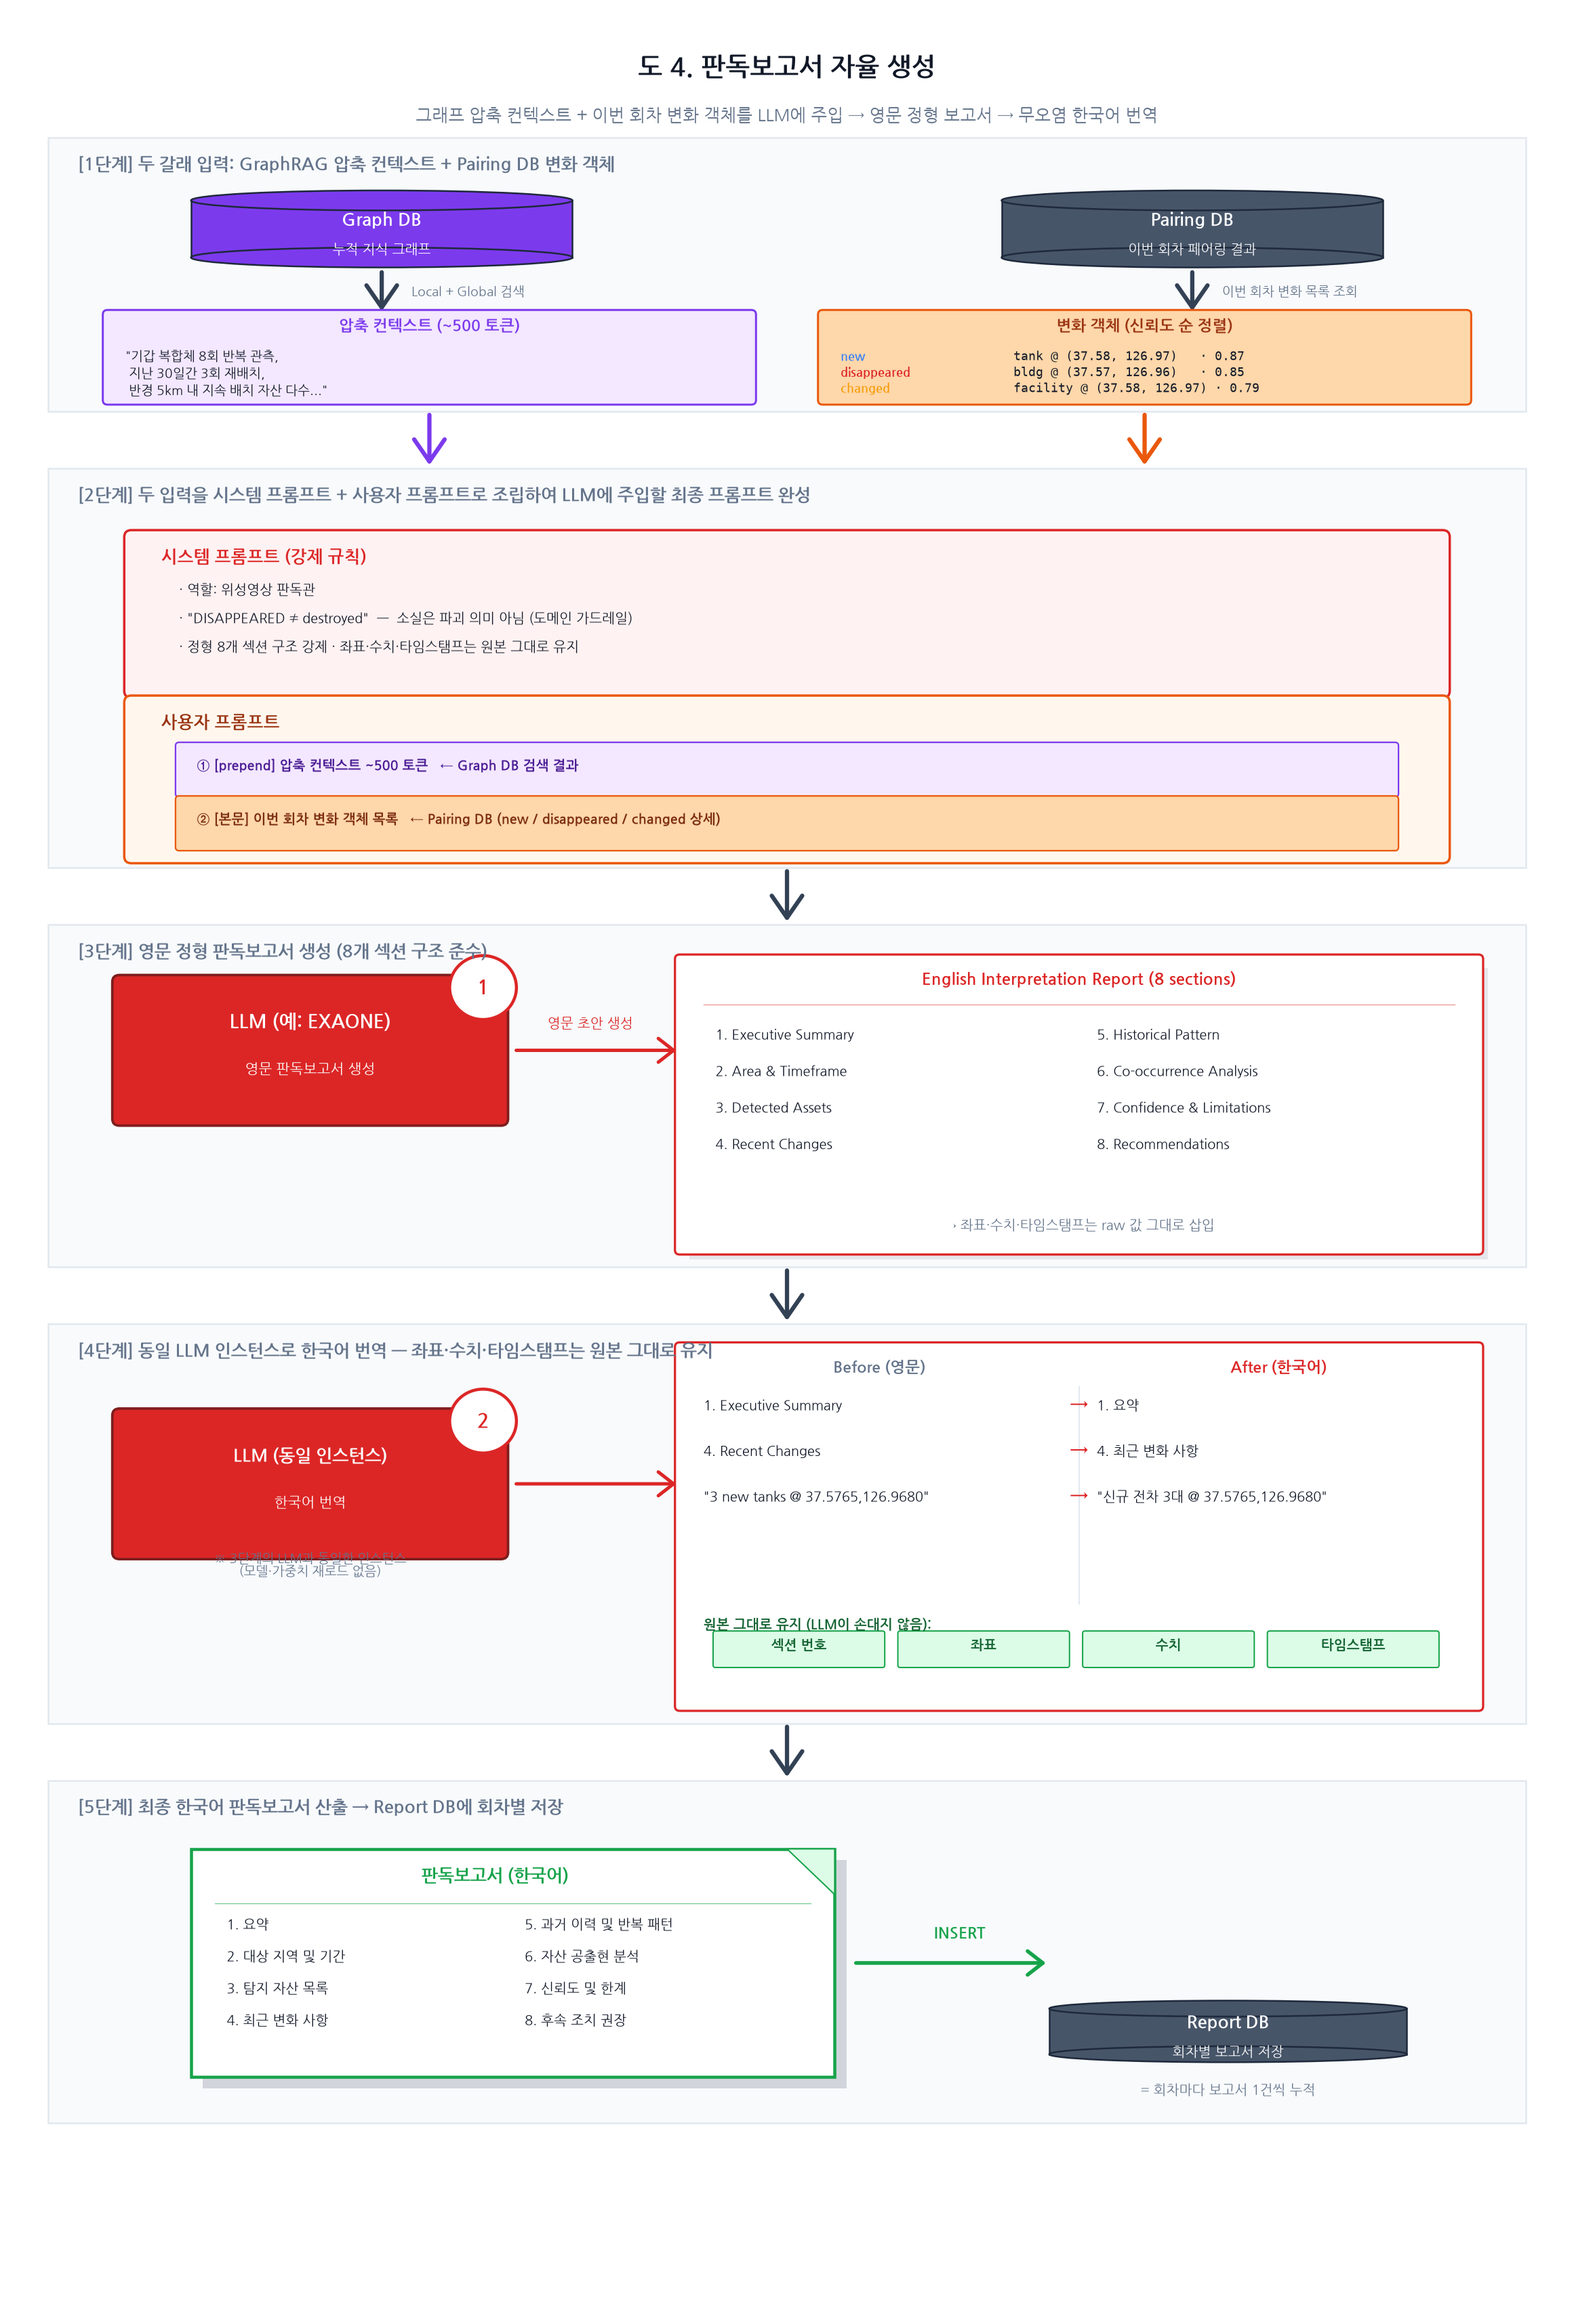
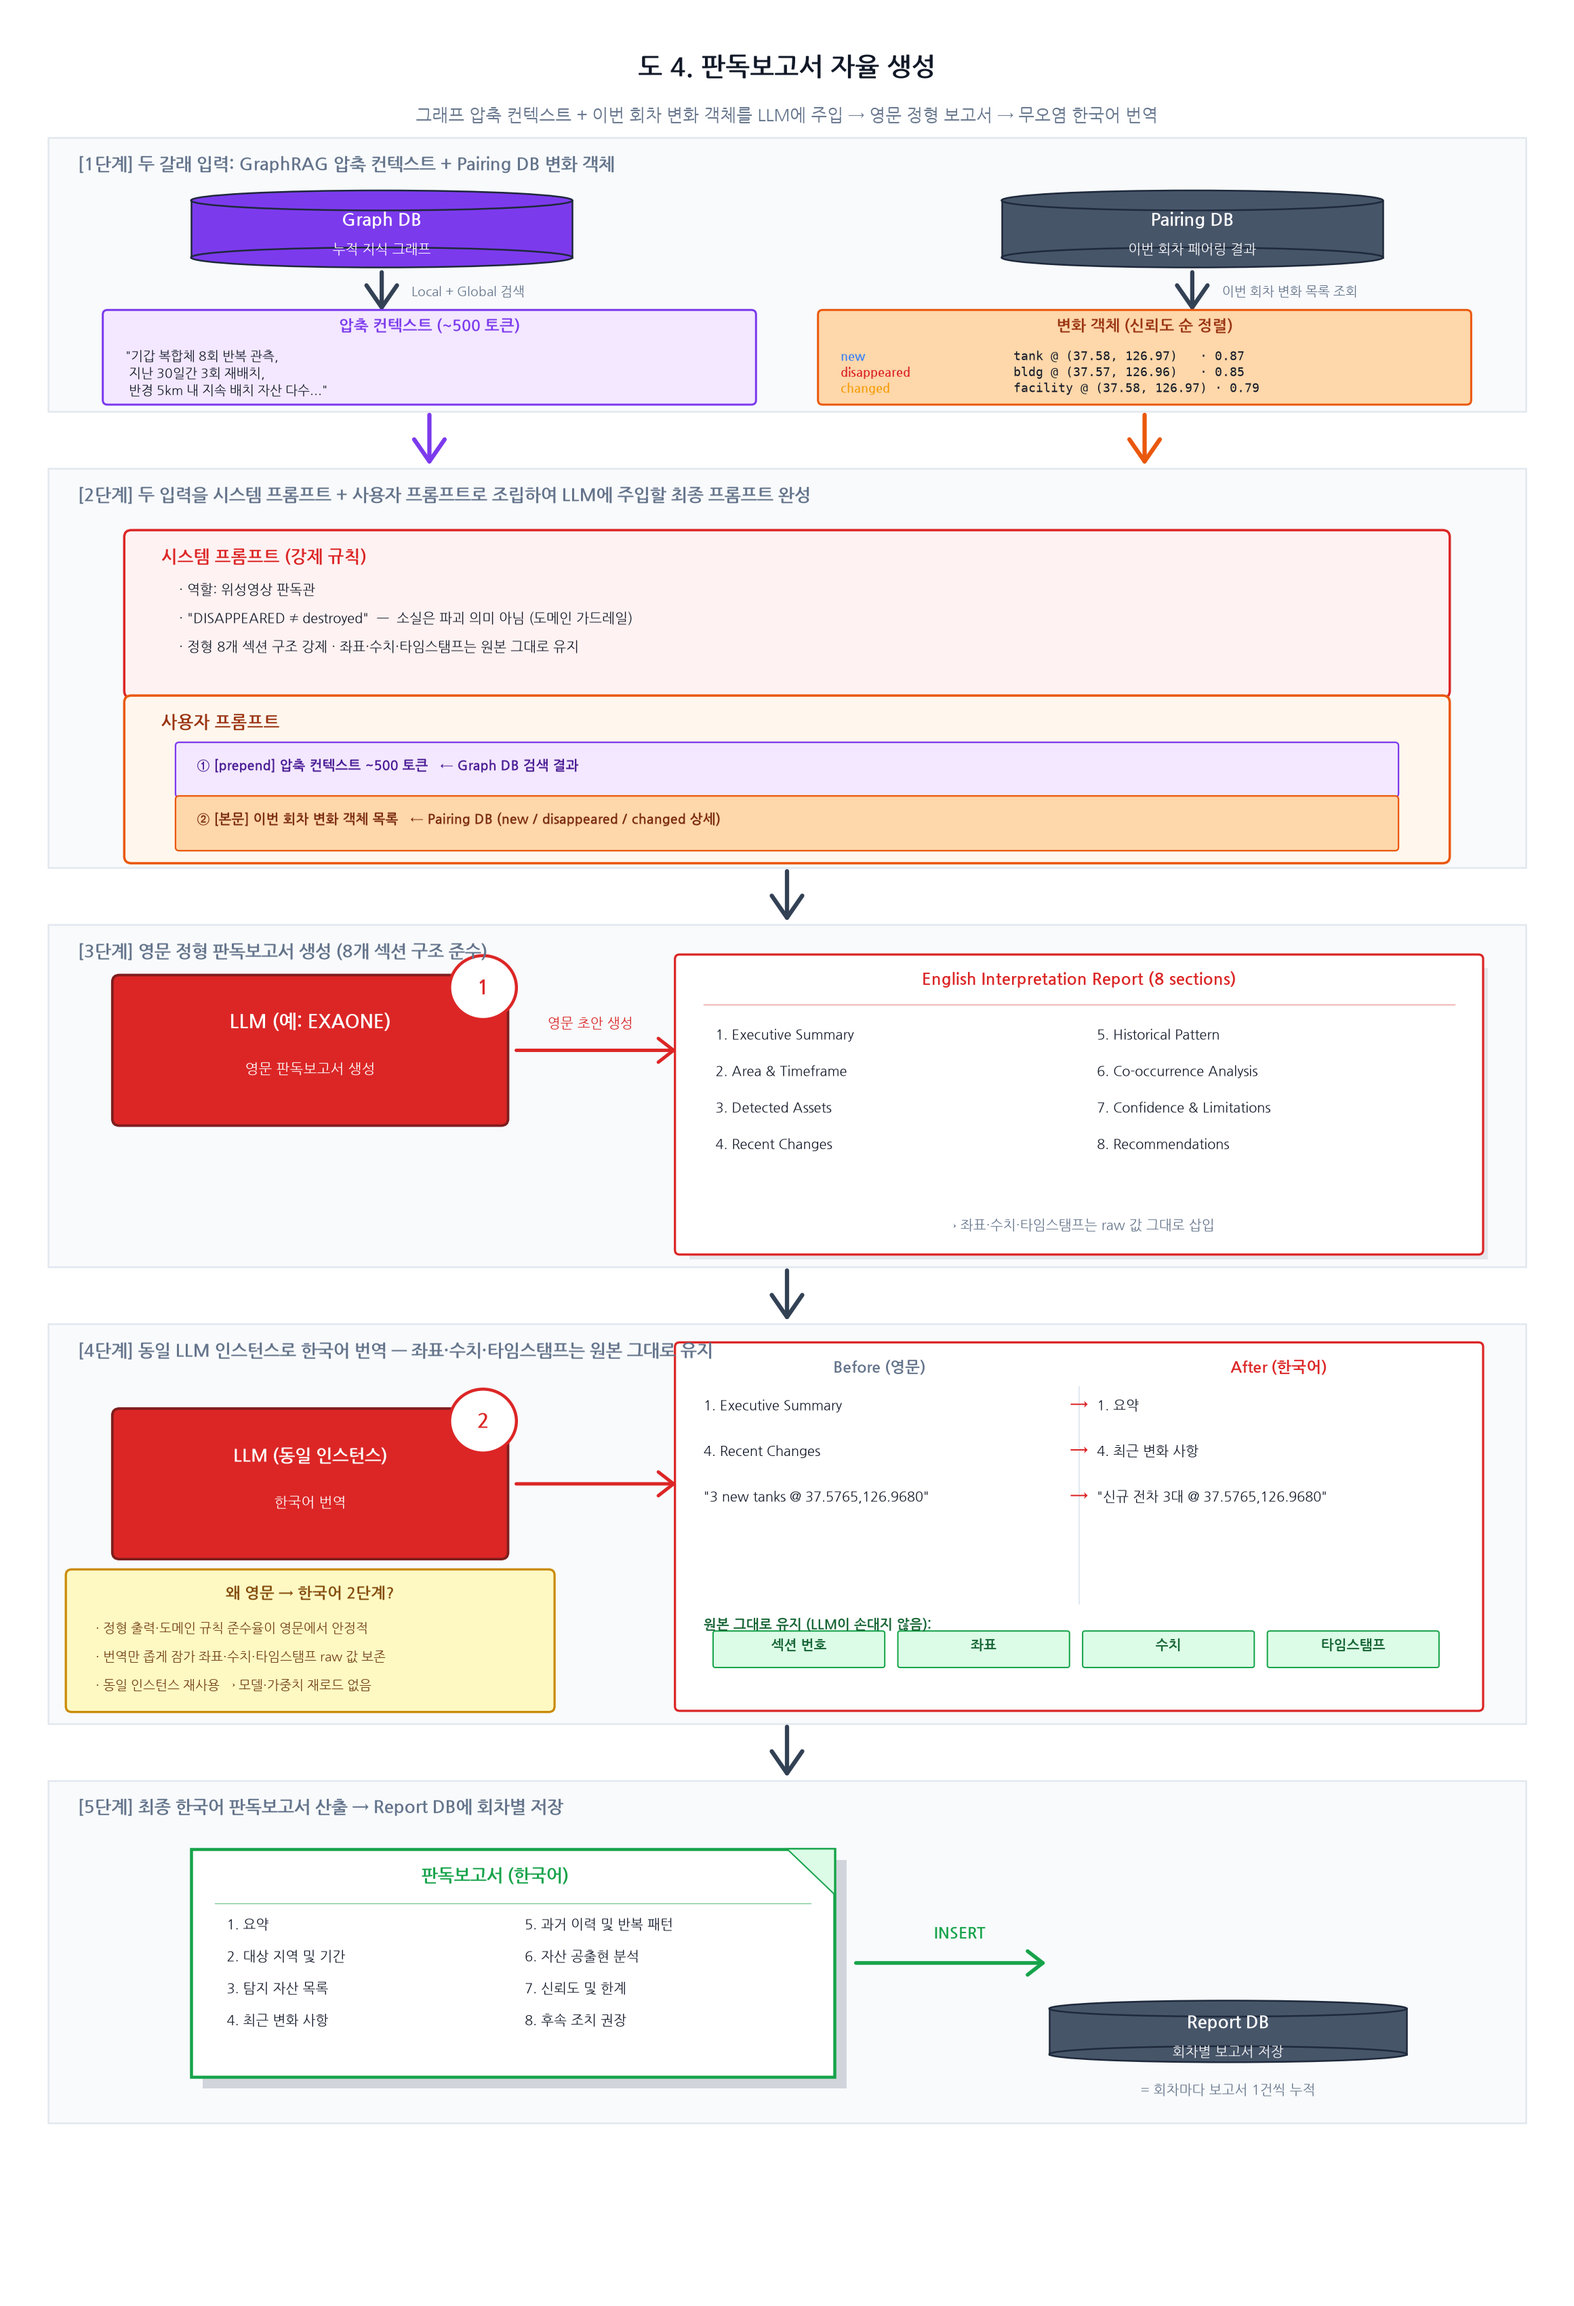
fig4 v2: 4단계에 '왜 영문→한국어 2단계?' 콜아웃 추가
한국어로 곧바로 생성하지 않고 영문 생성→한국어 번역 순서를 택한
이유를 노란 배경 콜아웃 박스로 4단계 하단 좌측에 배치.
- 정형 출력·도메인 규칙 준수율이 영문에서 안정적
- 번역 단계를 좁게 잠가 좌표·수치·타임스탬프 raw 값 보존
- 동일 인스턴스 재사용 → 모델·가중치 재로드 없음
기존 '동일 인스턴스' 별도 주석은 콜아웃 세 번째 항목으로 흡수.

Claude-Session: https://claude.ai/code/session_01Y3sWY7g1ewsnteVCS5FK4B

Changed region(s): [[0.031, 0.6543, 0.3721, 0.7478]]

diff --git a/build_fig4_v2.py b/build_fig4_v2.py
@@ -291,10 +291,25 @@ ax.add_patch(Circle((llm2_x + llm2_w - 0.15, llm2_y + llm2_h - 0.05), 0.28,
 ax.text(llm2_x + llm2_w - 0.15, llm2_y + llm2_h - 0.05, "2",
         ha="center", va="center", fontsize=12, fontweight="bold", color=LLM)
 
-# 아래에 "1차와 동일 인스턴스" 강조
-ax.text(llm2_x + llm2_w/2, llm2_y - 0.2,
-        "※ 3단계의 LLM과 동일한 인스턴스\n(모델·가중치 재로드 없음)",
-        ha="center", fontsize=7.5, color=MUTED, style="italic")
+# 하단 콜아웃: 왜 영문→한국어 2단계로 하는지 요약
+call_x, call_y = 0.5, 5.15
+call_w, call_h = 4.0, 1.15
+ax.add_patch(FancyBboxPatch((call_x, call_y), call_w, call_h,
+                             boxstyle="round,pad=0.05",
+                             facecolor="#fef9c3",
+                             edgecolor="#ca8a04", lw=1.3))
+ax.text(call_x + call_w/2, call_y + call_h - 0.2,
+        "왜 영문 → 한국어 2단계?",
+        ha="center", fontsize=9, fontweight="bold", color="#854d0e")
+ax.text(call_x + 0.2, call_y + call_h - 0.5,
+        "· 정형 출력·도메인 규칙 준수율이 영문에서 안정적",
+        fontsize=7.5, color="#713f12")
+ax.text(call_x + 0.2, call_y + call_h - 0.75,
+        "· 번역만 좁게 잠가 좌표·수치·타임스탬프 raw 값 보존",
+        fontsize=7.5, color="#713f12")
+ax.text(call_x + 0.2, call_y + call_h - 1.0,
+        "· 동일 인스턴스 재사용 → 모델·가중치 재로드 없음",
+        fontsize=7.5, color="#713f12")
 
 # 화살표 → 번역 결과
 arrow_right(llm2_x + llm2_w + 0.1, llm2_y + llm2_h/2, 5.6, color=LLM, lw=2)
